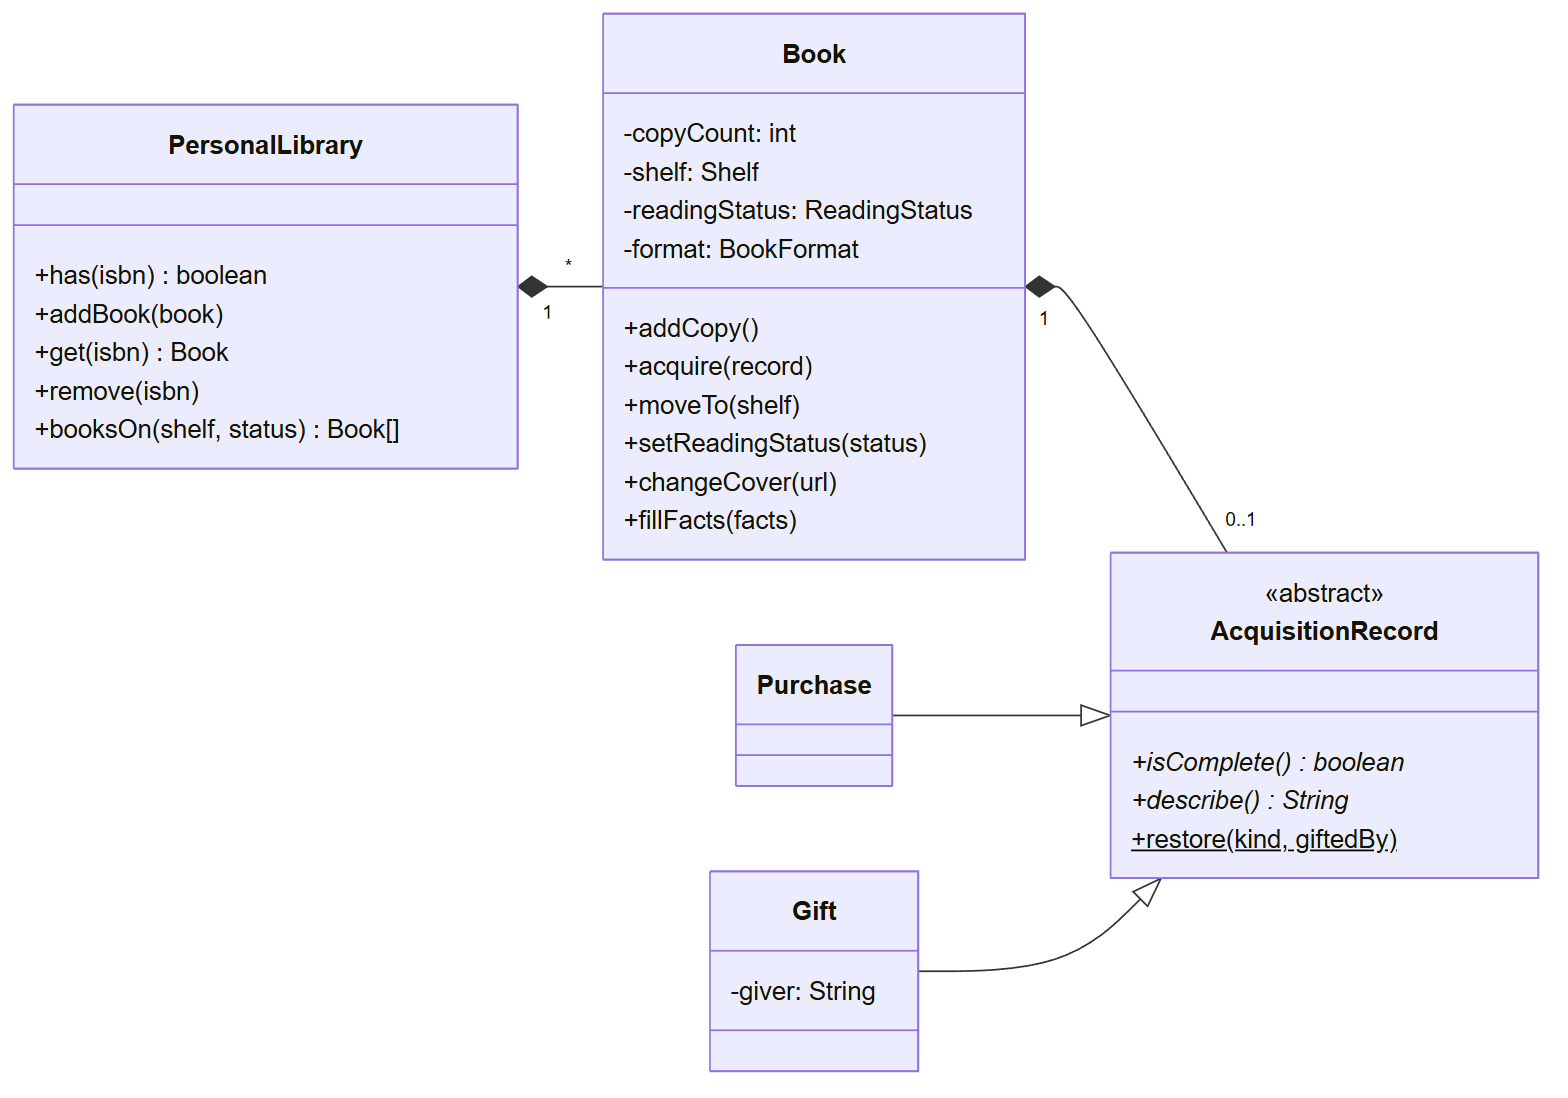
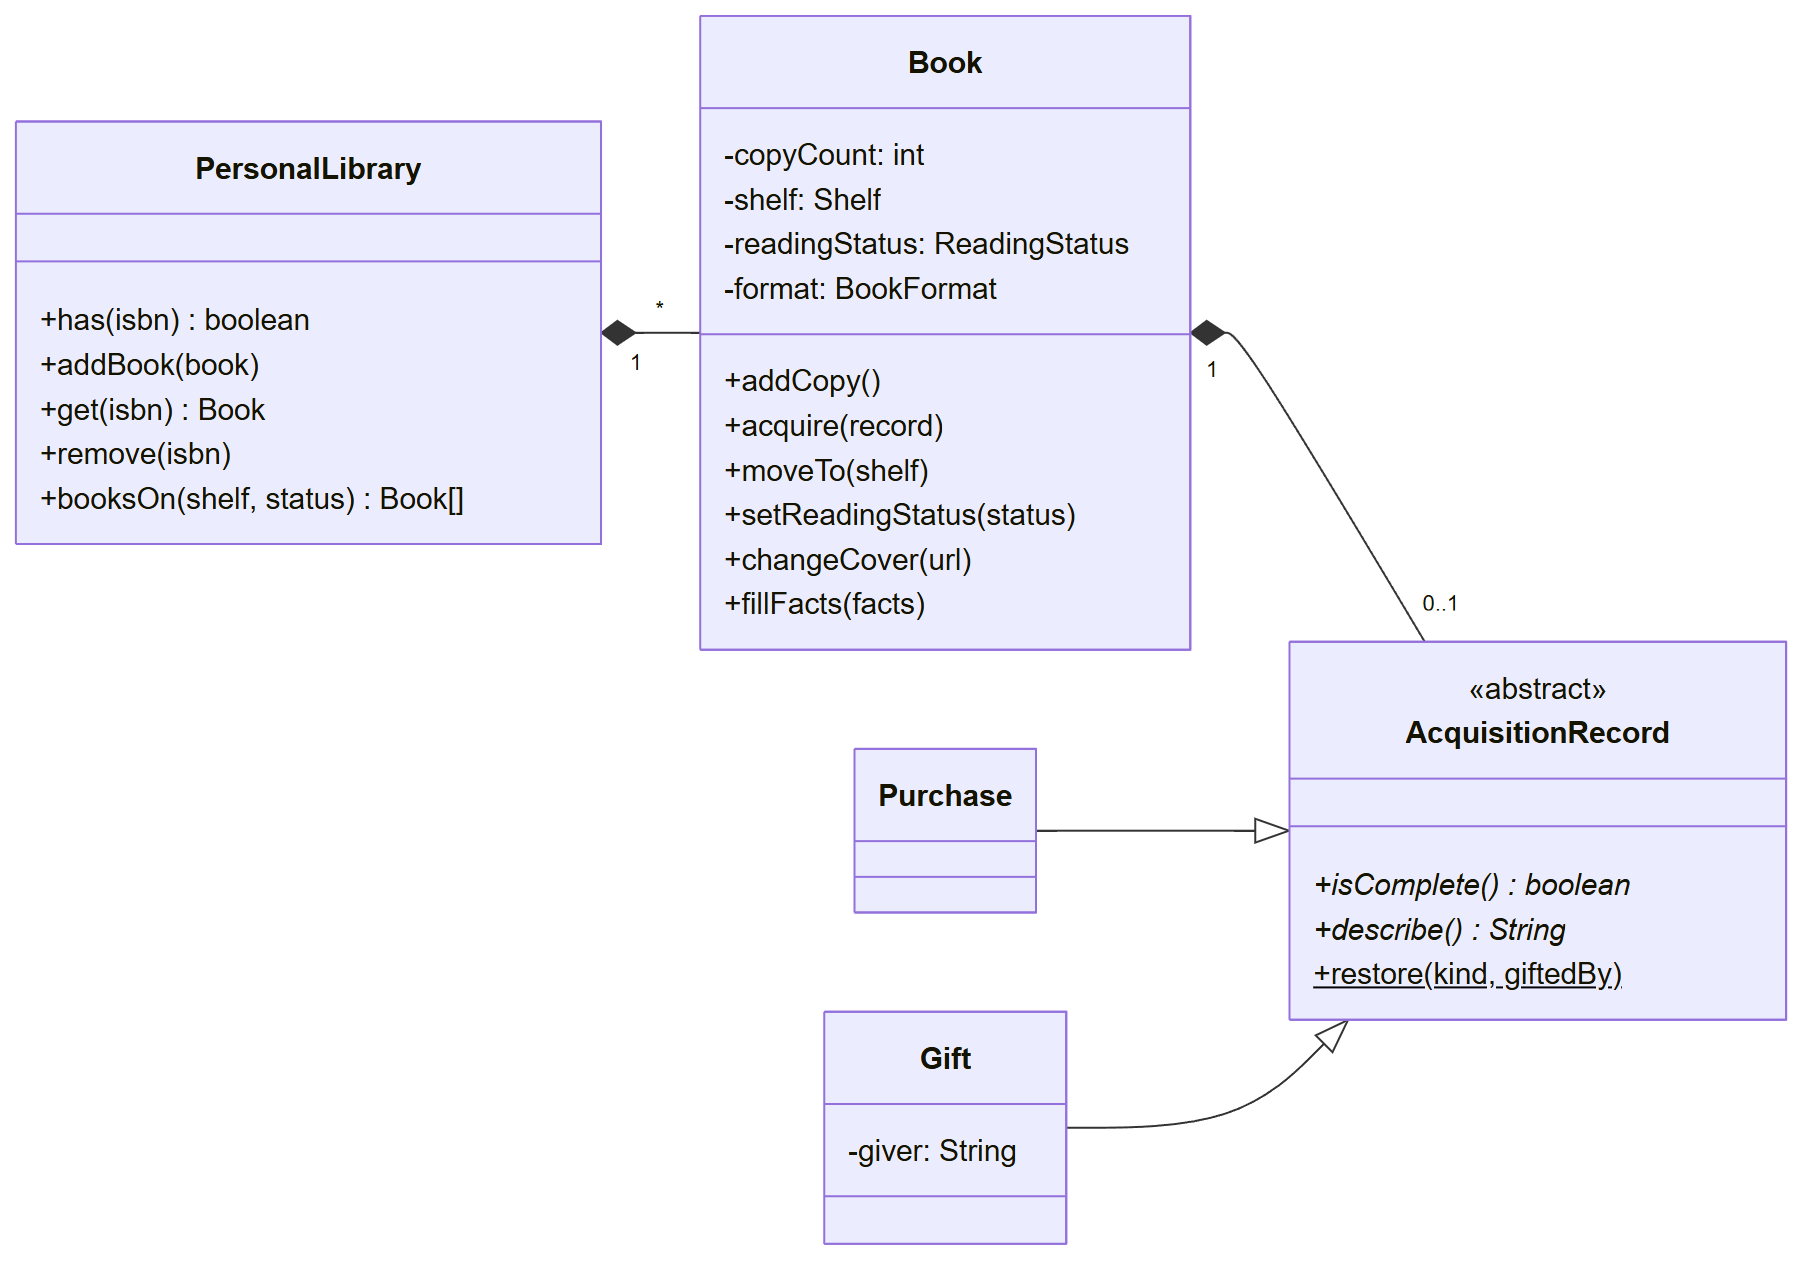
Design doc: give the domain interface diagram the full width (5.5pt -> 7.7pt printed)
Refs #18

diff --git a/docs/design/DesignDocument_Hechavarria.tex b/docs/design/DesignDocument_Hechavarria.tex
@@ -342,7 +342,7 @@ Figure~\ref{fig:iface_service} shows the use case classes. Every library use cas
 
 \begin{figure}[htbp]
 \centering
-\includegraphics[width=\textwidth, height=0.36\textheight, keepaspectratio]{figures/iface-domain.png}
+\includegraphics[width=\textwidth, height=0.9\textheight, keepaspectratio]{figures/iface-domain.png}
 \caption{Domain Model Interface}
 \label{fig:iface_domain}
 \end{figure}
